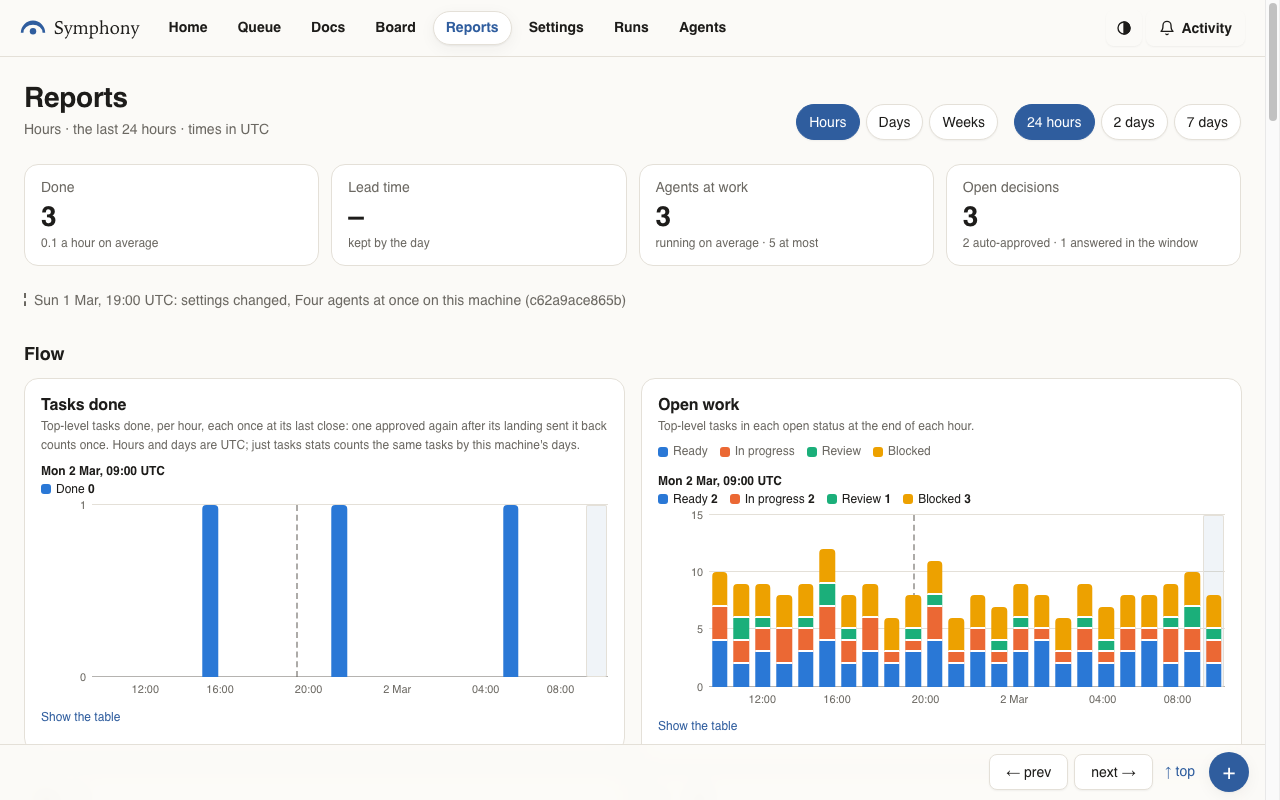
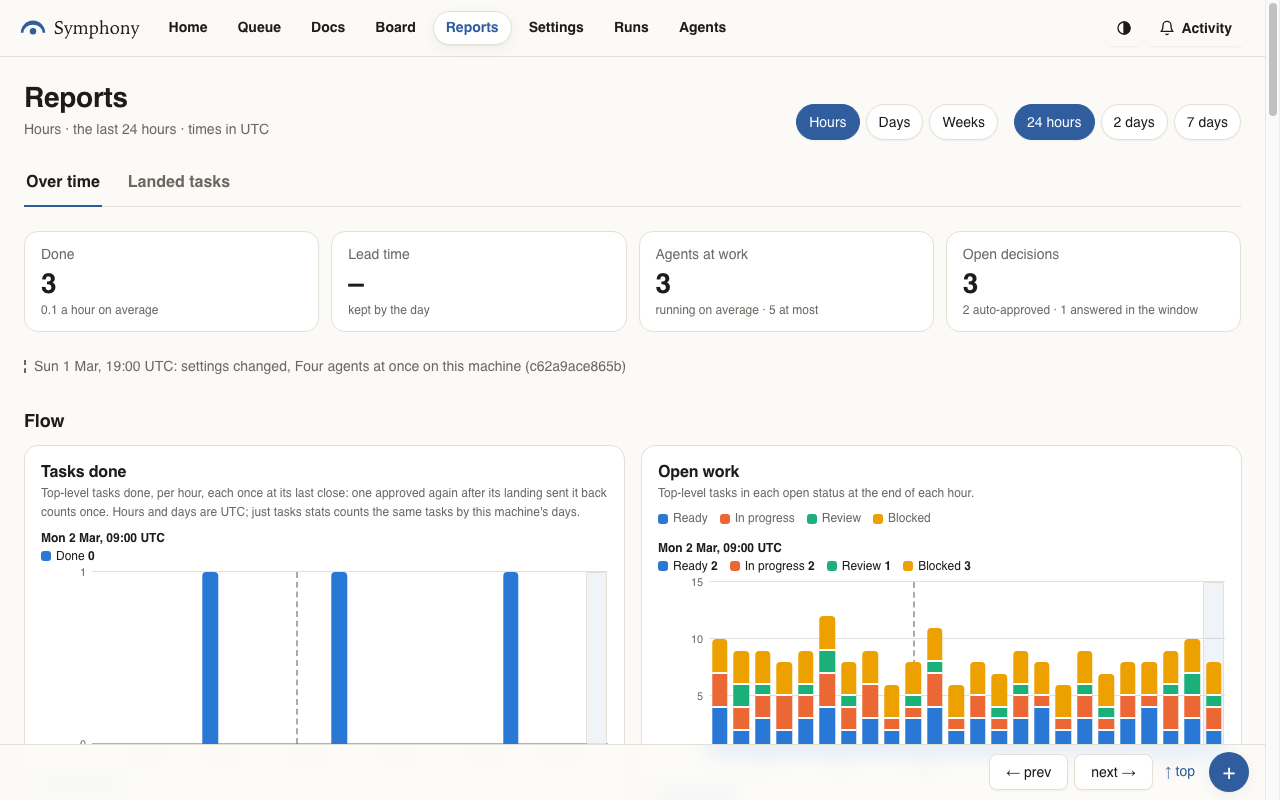
app/reports-landed-cost: the documents, the skills and the pictures
REPORTS says the two tabs, the new charts and the Landed tasks tab, with its
pictures retaken from a fixture whose landings now carry a kind, lines and review
rounds. TASKS says a task's kind, its command and where the tokens go now;
BOARD_API says api 2.7's create kind; the day files' format names kind and lines.
The create-task skill names --kind, and the orchestrator's gives an owner-filed
task one as it briefs it.

diff --git a/docs/product/REPORTS.md b/docs/product/REPORTS.md
@@ -6,6 +6,9 @@ that landed and the board's own health, as charts on one time axis. It is for th
 changes a limit, a rule or a skill and wants to see what that did to the speed and the quality of
 what lands. Nothing on it can be changed: it is read from what the machine recorded each hour.
 
+It has two tabs. **Over time** draws each period of the window; **Landed tasks**
+(`/<project>/reports?view=landed`) draws the tasks landed in it, one by one, and what each cost.
+
 ![Reports for the last 24 hours, wide](pictures/reports-wide.png)
 
 ## What the owner does here
@@ -21,12 +24,17 @@ what lands. Nothing on it can be changed: it is read from what the machine recor
 - **Looks for what a change did.** A dashed line crosses every chart where the project's settings
   or its agents' instructions changed.
 - **Reads a chart as a table.** **Show the table** under a chart lists every period's values.
+- **Reads what a landed task cost.** **Landed tasks** says which tasks cost the most, what a task
+  of each kind costs, what the review rounds added and which tasks were dear for their size; a
+  task's name opens its page.
 
 ## What it shows
 
 From the top: the heading with the grain and window chosen, the two rows of buttons that choose
-them, the four figures, the changes marked in the window, then the charts under a heading per
-group, and under the charts of tokens what the window and its landed tasks cost.
+them, the two tabs, then the tab shown. **Over time** holds its four figures, the changes marked in
+the window, then the charts under a heading per group. **Landed tasks** is [below](#landed-tasks).
+Both tabs read the window chosen, and the address names the tab, so a reload or a link opens the
+same one.
 
 ### The window
 
@@ -69,6 +77,8 @@ says *kept by the day*.
 | | **Machine load** | the peak and the average of the machine's load |
 | **Tokens and cost** | **Estimated cost** | what the agents' model calls would cost at list prices, by role |
 | | **Tokens** | the tokens those calls took, by role |
+| | **Cost per landed task** | the median and the **p90** cost of a task landed in the period, with its subtasks, and **All in**: every token of the period, the orchestrators' with them, over the tasks landed in it |
+| | **Cost per 100 lines changed** | what the landed tasks cost for 100 of the lines their landings changed, and **All in**: every token of the period over every line that reached the default branch in it |
 | **Decisions and code** | **Decisions** | cards answered and auto-approved, and a line of those still open |
 | | **Commits** | commits and merges that reached the default branch |
 | | **Lines changed** | lines added, above the axis, and removed, below it |
@@ -82,13 +92,45 @@ and **Show the table**.
 
 ### Tokens and cost
 
-Under the two charts of tokens the page sums the window: the estimated dollars and the tokens in
-all; then **Cost per landed task**, with how many tasks landed with tokens recorded, the median
-cost of one with its subtasks, the ten dearest, each a link to its page, and what the first
-rounds cost against the review rounds after them. Every dollar is an estimate at the providers'
-list prices, with the day those prices were read: never money spent, as a subscription is not
-billed by the token. A figure marked **+ unpriced** leaves out the tokens of a model the price
-list does not name, and the page names those models.
+Under the group's heading the page sums the window: the estimated dollars and the tokens in all.
+A period that landed no task has no point on **Cost per landed task**, and says *no task landed*
+over the plot rather than *no data recorded*; one whose landings changed no counted line has none
+on **Cost per 100 lines changed**. Under the charts the page says what every dollar is: an
+estimate at the providers' list prices, with the day those prices were read, never money spent,
+as a subscription is not billed by the token. A figure marked **+ unpriced** leaves out the
+tokens of a model the price list does not name, and the page names those models.
+
+## Landed tasks
+
+![The Landed tasks tab, wide](pictures/reports-landed-wide.png)
+
+Each task landed in the window with tokens recorded, priced once with its subtasks, at its last
+landing in the window: by task, not by period. A sentence says how many, then four figures, each
+a link to its chart, and four charts.
+
+| Figure | Says | Under it |
+| --- | --- | --- |
+| **Landed** | the tasks landed with tokens recorded | how many landed with none, which no figure counts |
+| **Median a task** | the median cost of a task with its subtasks | the mean and the **p90** |
+| **Per 100 lines changed** | what 100 of the lines the landings changed cost | of how many tasks and lines, how many changed no counted line and how many landed before lines were kept |
+| **Back after review** | the tasks reviewed twice or more | of how many, and what the review rounds cost of the whole |
+
+| Chart | Shows |
+| --- | --- |
+| **Dearest tasks** | the ten tasks that cost the most, a bar each: the work up to its first review, and every round after it. Each name opens the task; **Show all N as a table** lists every task landed, with its kind, its parts, tokens, reviews and lines |
+| **By kind** | the median cost of a task of each kind it was filed with (feature, fix, red, tests, docs), the kinds that cost the most in all first, each in its own colour; how many, what in all and what 100 lines cost under each. A task given no kind, or landed before kinds were kept, is under **No kind**, grey and last |
+| **By review rounds** | the mean cost of a task by how many reviews it took, none to four or more, its first round and its review rounds stacked; how many tasks under each column |
+| **Every task, cost against size** | every task as a dot of its kind's colour, its cost against the lines its landing changed, both on a log scale: a dot above the others cost more for its size. A tap names the task, its cost, its lines and what 100 of them cost, and links its page. A task that changed no counted line, or landed before lines were kept, has no dot, and the chart says how many |
+
+A press on a name in a legend hides that part, kind or series, as on **Over time**. Generated
+files and lock files are left out of a task's lines, as **Lines changed** leaves them out.
+
+Under the charts the tab says what no figure on it counts: a Codex session's tokens, which no hook
+records, so a task a Codex agent worked looks cheap; the orchestrators' tokens, which are on no
+task and count only in **All in** on **Over time**; and a session's last answer after its last
+tool call. A window in which no task landed says so in place of the charts, its figures at **–**.
+
+![The Landed tasks tab on a phone](pictures/reports-landed-phone.png)
 
 ## Gaps are not zeros
 
@@ -126,11 +168,12 @@ page reads its window again every five minutes, and at once when another window 
 
 | State | What the page shows |
 | --- | --- |
-| Loading, first visit | grey lines that stand in for four figures and two charts, which a screen reader reads as *Loading the reports…* |
+| Loading, first visit | grey lines that stand in for four figures and two charts, which a screen reader reads as *Loading the reports…*, or *Loading the landed tasks…* on **Landed tasks** |
 | Loading, a later visit | at once, the window as this device last kept it, with *Shown from this device, saved 14:32. Checking for changes…* until the server has answered |
 | Nothing recorded yet | *No roll-up yet.*, when the first is due, the four figures at **–** and no chart |
 | A file could not be read | **N files not read: their hours show as gaps**, which opens to name each file and why |
-| The read fails | **The reports could not be read.**, why, and that it is trying again; what was shown stays |
+| The read fails | **The reports could not be read.**, or **The landed tasks could not be read.**, why, and that it is trying again; what was shown stays |
+| No task landed in the window | on **Landed tasks**: *No top-level task landed in the window.*, or how many landed with no tokens recorded, the four figures at **–** and no chart |
 | The read fails over a kept copy | the kept copy, with *Not reachable* in place of *Checking for changes…* |
 | Lead time, by the hour | in the chart's place: *The roll-up keeps lead time by the day: switch to Days or Weeks to see it.* |
 | A chart below the screen | its outline, drawn as it comes near the screen |
@@ -155,7 +198,11 @@ only the newest three are listed, so the first chart stays on the first screen.
   span has none, and is a gap.
 - A session with two roles counts in both in **Agents at work**; the line counts it once.
 - A link to one chart (`/<project>/reports#chart-cost`) opens the page at that chart, until a
-  window is chosen.
+  window is chosen. A figure's link on **Landed tasks** does the same for its chart.
+- A task landed twice in the window, sent back by its landing and landed again, is one task on
+  **Landed tasks**, at its last landing, with every token it took.
+- Day files written before kinds and lines were kept still read: their tasks are under **No kind**
+  and have no dot.
 - A change that reaches the default branch outside the window is not marked, and a change to a
   guide is never marked.
 

diff --git a/docs/workflow/TASKS.md b/docs/workflow/TASKS.md
@@ -123,6 +123,21 @@ from `in_progress` when nobody executes it; a block line written before the
 status was recorded sends it to `ready` (`in_progress` with an executor). A task
 blocked by hand stays blocked.
 
+A task's **kind** says what its work is: `feature`, `fix`, `red`, `tests` or `docs`
+(`crates/tasks/src/kind.rs`). `just tasks create --kind KIND` names it, as the api's `create`
+does (`kind`, api 2.7, [BOARD_API](../engineering/BOARD_API.md)) and the create-task skill asks
+a filer to; `just tasks kind SLUG KIND [--as HANDLE]` gives an open task one or changes it, as an
+orchestrator does for a task the owner filed from a page as it briefs it, and says on the
+task's thread the kind it gave and the one it replaced. A word not of the list is refused,
+naming the list, and a done or cancelled task keeps the kind it was filed with. A task filed red
+([Slots](#slots)) with no kind is given `red` in the same write. A task
+may have none, as every task filed before kinds were kept has, and its slug is never read as
+one. `just tasks show` prints it (`kind: fix`, `--json`'s `fields._board.kind`), its page shows it
+among its facts, and the Reports page groups the landed tasks by it
+([Where the tokens go](#where-the-tokens-go)). It is the board field `fields._board.kind`,
+beside the red mark and an experiment's arm and out of `set_field`'s reach, so it is no schema
+step.
+
 `just tasks priority SLUG N [--as HANDLE]` changes an existing task's priority,
 from `0` to `4`, and records the actor and both values on its thread. `next`,
 `list` and the PULL digest use the new priority immediately; the change sends
@@ -3258,19 +3273,27 @@ money spent ([What the tokens cost](#what-the-tokens-cost)):
   A task with none shows no figure.
 - **The Agents page** gives each agent its tokens and cost under its line, from the agents API.
 - **Reports** has *Tokens and cost*: the cost and the tokens of each hour, day or week by role
-  (orchestrators, executors, reviewers and the rest), and below them the window's own: tokens and
-  cost all told, each top-level task landed in the window priced once with its subtasks (the
-  median and the ten dearest, each a link to its page), and the review rounds after the first
-  against the first rounds, from the [day files](../product/analysis/reports-and-monitoring.md#the-day-files).
-  An hour's tokens are what the board's `usage` gained between two hourly roll-ups, shared among
-  the hours between them by time: an hour no two roll-ups span is a gap, never a zero.
+  (orchestrators, executors, reviewers and the rest), and each period's landed tasks: the median
+  and the p90 cost of one, and what 100 of their lines cost, each beside its **All in**, every
+  token of the period over its landed tasks and over every line that reached the default branch.
+  Its *Landed tasks* tab prices each top-level task landed in the window once with its subtasks,
+  at its last landing, and draws them task by task: the dearest ten, the median by kind, the mean
+  by review rounds, and every task's cost against the lines its landing changed
+  ([REPORTS](../product/REPORTS.md#landed-tasks)), all from the
+  [day files](../product/analysis/reports-and-monitoring.md#the-day-files). An hour's tokens are
+  what the board's `usage` gained between two hourly roll-ups, shared among the hours between
+  them by time: an hour no two roll-ups span is a gap, never a zero. What is not recorded above
+  counts on no task, and the page says so.
 
 `just tasks stats` ends with the same reading of its window's day files: tokens and cost by day
-and role, the landed tasks' median and ten dearest, and the review rounds against the first, a
+and role, the landed tasks' median and ten dearest, the review rounds against the first, and
+how many were back after review (`back after review: N of M were reviewed twice or more`), a
 day no two roll-ups span saying `no record`; `--json` carries it as `tokens`: `prices`, `per_day`
 (each `day` with its `by_role`, `null` for no record), and `landed` (`tasks`, `without`,
-`median_dollars`, `dearest`, `first_round`, `later_rounds`, `again`). Without day files (a private server's board, or a board that
-`TASKS_SERVER` names) it says there are none and prints the rest.
+`median_dollars`, `dearest`, `first_round`, `later_rounds`, `back_after_review`, and `again`,
+the tasks with any round past the first, kept for a reader of it). Without day files (a private
+server's board, or a board that `TASKS_SERVER` names) it says there are none and prints the
+rest.
 
 The table moves the board to schema 19, which a build on schema 18 reads unharmed (the
 Symphony, the shared server among them): it opens a board one schema ahead to read

diff --git a/.agents/skills/create-task/SKILL.md b/.agents/skills/create-task/SKILL.md
@@ -2,7 +2,7 @@
 name: create-task
 description: File a task on the board so an executor can work from the brief alone, without duplicating existing work or missing a required field. Trigger on "file a task", "create a task", "add this to the board", or /create-task.
 ---
-<!-- symphony-stamp: 845fc6ef5d7976da files=SKILL.md -->
+<!-- symphony-stamp: 8a0a1487134babfb files=SKILL.md -->
 
 # File a task on the board
 
@@ -18,7 +18,9 @@ page says how to prepare the brief. Not attached to the board yet, get a handle 
    work's own words. An open task that covers it gets a post (`just tasks say`), not a second
    task; a finished one is named in the new brief.
 3. **Pick the slug**, `area/name` (`app`, `tests`, `tools`, `docs`, `skills`, …): it becomes the
-   branch name, so keep it short and distinct.
+   branch name, so keep it short and distinct. **Name its kind** with `--kind`, what its work is:
+   `feature`, `fix`, `red`, `tests` or `docs`. The board never reads one from the slug, and
+   Reports groups the landed tasks by it, a task with none under No kind.
 4. **Priority and stage.** `--priority` is 0 (most urgent) to 4. `--stage` is `ready` (the
    default, work with no design step), `design` or `concept` (an owner-signed design document is
    still needed, which agents never sign off themselves) or `backlog` (a parked follow-up).
@@ -42,7 +44,7 @@ page says how to prepare the brief. Not attached to the board yet, get a handle 
      question), addressed --to @orchestrator, --to @reviewer or --to HANDLE
    ```
 
-7. **File it**: `just tasks create SLUG "title" --priority N --stage STAGE --link … --depends …
-   --parent … --body-file PATH --as HANDLE`. Its line says who orchestrates it, or that it waits
+7. **File it**: `just tasks create SLUG "title" --kind KIND --priority N --stage STAGE --link …
+   --depends … --parent … --body-file PATH --as HANDLE`. Its line says who orchestrates it, or that it waits
    for an orchestrator. Tell the owner the slug in one line. Starting an executor on it is a
    separate step, the task-orchestrator skill's.

diff --git a/crates/symphony/shipped/skills/create-task/SKILL.md b/crates/symphony/shipped/skills/create-task/SKILL.md
@@ -17,7 +17,9 @@ page says how to prepare the brief. Not attached to the board yet, get a handle 
    work's own words. An open task that covers it gets a post (`just tasks say`), not a second
    task; a finished one is named in the new brief.
 3. **Pick the slug**, `area/name` (`app`, `tests`, `tools`, `docs`, `skills`, …): it becomes the
-   branch name, so keep it short and distinct.
+   branch name, so keep it short and distinct. **Name its kind** with `--kind`, what its work is:
+   `feature`, `fix`, `red`, `tests` or `docs`. The board never reads one from the slug, and
+   Reports groups the landed tasks by it, a task with none under No kind.
 4. **Priority and stage.** `--priority` is 0 (most urgent) to 4. `--stage` is `ready` (the
    default, work with no design step), `design` or `concept` (an owner-signed design document is
    still needed, which agents never sign off themselves) or `backlog` (a parked follow-up).
@@ -41,7 +43,7 @@ page says how to prepare the brief. Not attached to the board yet, get a handle 
      question), addressed --to @orchestrator, --to @reviewer or --to HANDLE
    ```
 
-7. **File it**: `just tasks create SLUG "title" --priority N --stage STAGE --link … --depends …
-   --parent … --body-file PATH --as HANDLE`. Its line says who orchestrates it, or that it waits
+7. **File it**: `just tasks create SLUG "title" --kind KIND --priority N --stage STAGE --link …
+   --depends … --parent … --body-file PATH --as HANDLE`. Its line says who orchestrates it, or that it waits
    for an orchestrator. Tell the owner the slug in one line. Starting an executor on it is a
    separate step, the task-orchestrator skill's.

diff --git a/apps/symphony-web/AGENTS.md b/apps/symphony-web/AGENTS.md
@@ -25,15 +25,16 @@ A page kind is an entry under `kinds/` that exports `run` and `stop`, named in `
   `document.ts`, `editor.tsx`, `asks.tsx` ([REVIEW](../../docs/workflow/REVIEW.md#commenting-in-place)).
 - `board`, `/tasks`: `board.tsx`, `boardlive.tsx`, `boardwait.tsx`, `flow.tsx`
   ([the board's design](../../docs/product/analysis/board-design.md)).
-- `task`, `/task/SLUG`: `task-page.tsx`, `task-live.ts`, `parts.ts`, `gates.tsx`, `timeline.tsx`,
-  `timeline-cost.ts`, `task-diff.tsx`, `task-diff-files.tsx`, `attempts.tsx`, and for a custom
-  workflow's task `nextactions.tsx`, `guards.tsx` ([TASKS](../../docs/workflow/TASKS.md#gates),
+- `task`, `/task/SLUG`: `task-page.tsx`, `task-live.ts`, `parts.ts`, `gates.tsx`, `kind.ts`,
+  `timeline.tsx`, `timeline-cost.ts`, `task-diff.tsx`, `task-diff-files.tsx`, `attempts.tsx`, and
+  for a custom workflow's task `nextactions.tsx`, `guards.tsx` ([TASKS](../../docs/workflow/TASKS.md#gates),
   [the timeline](../../docs/workflow/TASKS.md#the-timeline),
   [WORKFLOW](../../docs/workflow/WORKFLOW.md#the-app)).
 - `agents`, `/agents`: `agents.tsx`, `agents-live.ts`, `session.tsx` (what a press does,
   `session-press.ts`)
   ([TASKS](../../docs/workflow/TASKS.md#the-agents-api)).
-- `reports`, `/reports`: `reports.tsx`, `chart.tsx`.
+- `reports`, `/reports`: `reports.tsx`, its Landed tasks tab `reports-landed.tsx`, `chart.tsx`
+  ([REPORTS](../../docs/product/REPORTS.md)).
 - `runs`, `/runs`: `runs.tsx` ([RUNS](../../docs/workflow/RUNS.md#the-runs-page)).
 - `settings`, `/settings`: `settings.tsx`
   ([PROJECT_FILE](../../docs/operations/PROJECT_FILE.md#the-settings-page)).

diff --git a/docs/workflow/CHECKS.md b/docs/workflow/CHECKS.md
@@ -420,7 +420,7 @@ both kinds, to copy after `--`:
 | the tasks board (`/tasks`) and its cards | `board` `task_columns` `task_controls` `tasks_and` `a_revealed_column` `owner_` `machine_work` `run_records::` `cache_pages::` `kept_pages::` `landmarks::` `layout_shift::` `skeleton::` `feed_deltas::` `header::` `look_parity::` `restored::` `components::` `polish::` `shot::` `projects::` `budget` |
 | a task's page, its gates and its timeline | `task_page` `task_panel` `task_priority` `task_gates::` `timeline::` `owner_controls::` `owner_save::` `cache_tasks::` `cache_ahead` `feed_deltas::` `notice_layout::` `landmarks::` `layout_shift::` `skeleton::` `header::` `look_parity::` `restored::` `components::` `persistent::` `polish::` `projects::` `budget` `preload::` |
 | the agents page (`/agents`) | `machine_work` `the_agents_page` `header::` `look_parity::` `the_chat_opened_on` `polish::` `projects::` `budget` |
-| the reports page (`/reports`) | `reports::` `header::` `polish::` `projects::` `budget` |
+| the reports page (`/reports`) | `reports::` `reports_landed::` `header::` `polish::` `projects::` `budget` |
 | the runs page (`/runs`) | `runs::` `header::` `polish::` `projects::` `preload::` `budget` |
 | the settings page (`/settings`) | `settings::` `header::` `phone_labels::` `projects::` `preload::` `budget` |
 | document and folder pages | `document` `docs_index` `owner_` `cache_ahead` `cache_pages::` `restored::` `landmarks::` `skeleton::` `layout_shift::` `look_parity::` `polish::` `projects::` `budget` |

diff --git a/docs/product/analysis/reports-and-monitoring.md b/docs/product/analysis/reports-and-monitoring.md
@@ -702,7 +702,14 @@ the word of its line (`answered`, `auto_approved`, `withdrawn`), what git was re
 left out, the board's `usage` sums at the read (above), and each top-level task landed in the day
 (`landed`), once at its last landing in it, with the tokens it and its subtasks took by role,
 review round, model and speed, which Reports prices for the cost per landed task and the review
-rounds against the first.
+rounds against the first. Each also names its `kind` where the task was given one
+([TASKS](../../workflow/TASKS.md#tasks-and-roles)), read from the task as the board's lines are
+replayed, and its `lines`, `{"added", "removed"}`, which the git read takes from the commit on
+the branch's line of first parents that landed it, the generated and lock files it leaves out of
+the hour's lines left out of these too: the squash its land's receipt names, or the merge whose
+subject names its slug, the newest of them where it landed twice. A task whose landing commit
+that read did not see has no `lines`, nor does any task of a file written before they were kept,
+which still reads: Reports draws such a task under **No kind** and with no dot.
 
 Three choices hold for every figure: a close as covered by another task is a move to `done` like a
 landing's and counts in the lead time; a review's instruction subtasks count among the subtasks

diff --git a/docs/engineering/BOARD_API.md b/docs/engineering/BOARD_API.md
@@ -25,11 +25,15 @@ reads with their JSON types, so a change that would break one fails its own task
 api promises is its calls, not the board's rules behind them, such as who may move or judge a
 task. Major 2 began at 2.0: `create` refuses `fast_fix`, including a null value. Tasks needing no
 review name their stamps through an assessment. The fields and calls held by the consumer contract
-keep their shapes. The current API is 2.6: minor 5 added `attempts`, `{"slug": S}`, a task's
+keep their shapes. The current API is 2.7: minor 5 added `attempts`, `{"slug": S}`, a task's
 execution attempts as `symphony_api::TaskAttempts`, read as the board's own service under the
 project the call runs in, refused from outside a project's checkout
 ([EXECUTION_ATTEMPTS](EXECUTION_ATTEMPTS.md#on-a-tasks-page)); minor 6 added what a guarded edge is
-taken with ([below](#a-task-a-custom-workflow-holds)).
+taken with ([below](#a-task-a-custom-workflow-holds)); minor 7 added `create`'s `kind`, what the
+task's work is, one of `feature`, `fix`, `red`, `tests` or `docs`, refused naming the list for any
+other word. Left out, the task has none, or `red` where `create` names a `red`
+([TASKS](../workflow/TASKS.md#tasks-and-roles)); `get` and `tasks` answer it among the task's
+`fields`, as `_board.kind`.
 
 ### What a program outside the board keeps
 

diff --git a/.agents/skills/task-orchestrator/SKILL.md b/.agents/skills/task-orchestrator/SKILL.md
@@ -2,7 +2,7 @@
 name: task-orchestrator
 description: Keep the development pipeline healthy through the task board: find approved work, file complete briefs, staff executors and independent reviewers, and follow the project's landing contract.
 ---
-<!-- symphony-stamp: 9745e41313e0e6ee files=SKILL.md -->
+<!-- symphony-stamp: 0b83b4fa2a494988 files=SKILL.md -->
 
 # Orchestrate development from the board
 
@@ -32,7 +32,8 @@ land by how an executor carries the work: [fast bug fixes](../work/start.md#fast
    discarded in its red's own fix, and no other work is held back to keep the load down for a
    run. Then staff ready work, restore orphaned work and arrange independent reviews. File a gap
    between approved documents and the implementation only with evidence, complete acceptance and
-   no existing task (`just tasks create`, by the create-task skill).
+   no existing task (`just tasks create`, by the create-task skill). A task the owner filed from a
+   page has no kind: give it one as you brief it, `just tasks kind SLUG KIND --as HANDLE`.
 4. Follow the project's integration and dependency policy before starting, and the stacking the
    task states. Coordinate file ownership, a separate checkout per executor, and record actual
    conflicts on the thread.

diff --git a/crates/symphony/shipped/skills/task-orchestrator/SKILL.md b/crates/symphony/shipped/skills/task-orchestrator/SKILL.md
@@ -31,7 +31,8 @@ land by how an executor carries the work: [fast bug fixes](../work/start.md#fast
    discarded in its red's own fix, and no other work is held back to keep the load down for a
    run. Then staff ready work, restore orphaned work and arrange independent reviews. File a gap
    between approved documents and the implementation only with evidence, complete acceptance and
-   no existing task (`just tasks create`, by the create-task skill).
+   no existing task (`just tasks create`, by the create-task skill). A task the owner filed from a
+   page has no kind: give it one as you brief it, `just tasks kind SLUG KIND --as HANDLE`.
 4. Follow the project's integration and dependency policy before starting, and the stacking the
    task states. Coordinate file ownership, a separate checkout per executor, and record actual
    conflicts on the thread.
